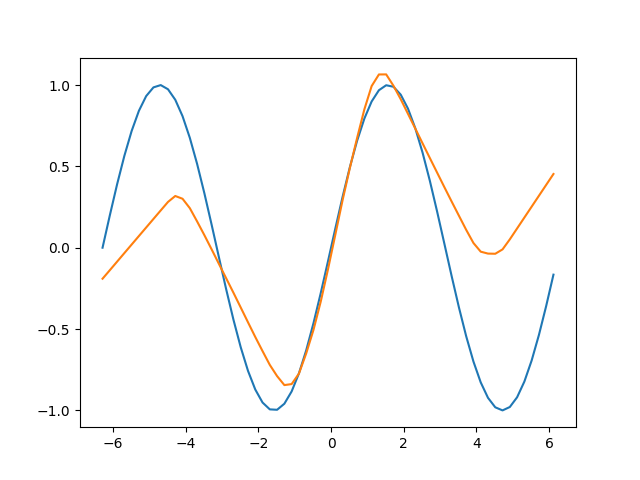
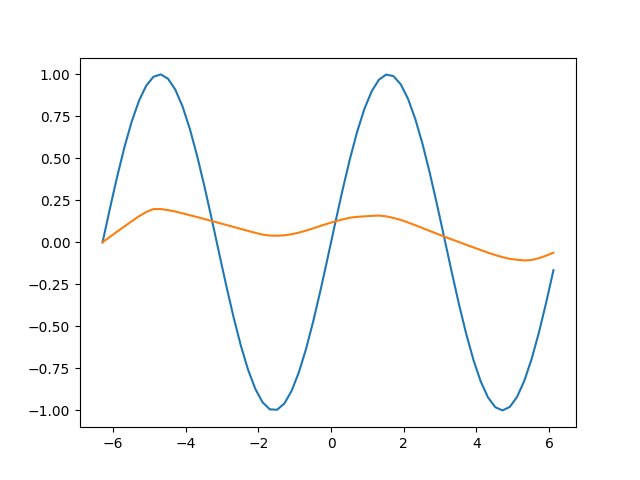
minor changes

diff --git a/test_NN.py b/test_NN.py
@@ -25,7 +25,7 @@ print("Before train (ReLu)   : ",testNet3.forward(X))
 
 # print("weights : ", testNet.W)
 
-for i in range(100):
+for i in range(10):
 	testNet.train(X,Y)
 	testNet3.train(X,Y)
 
